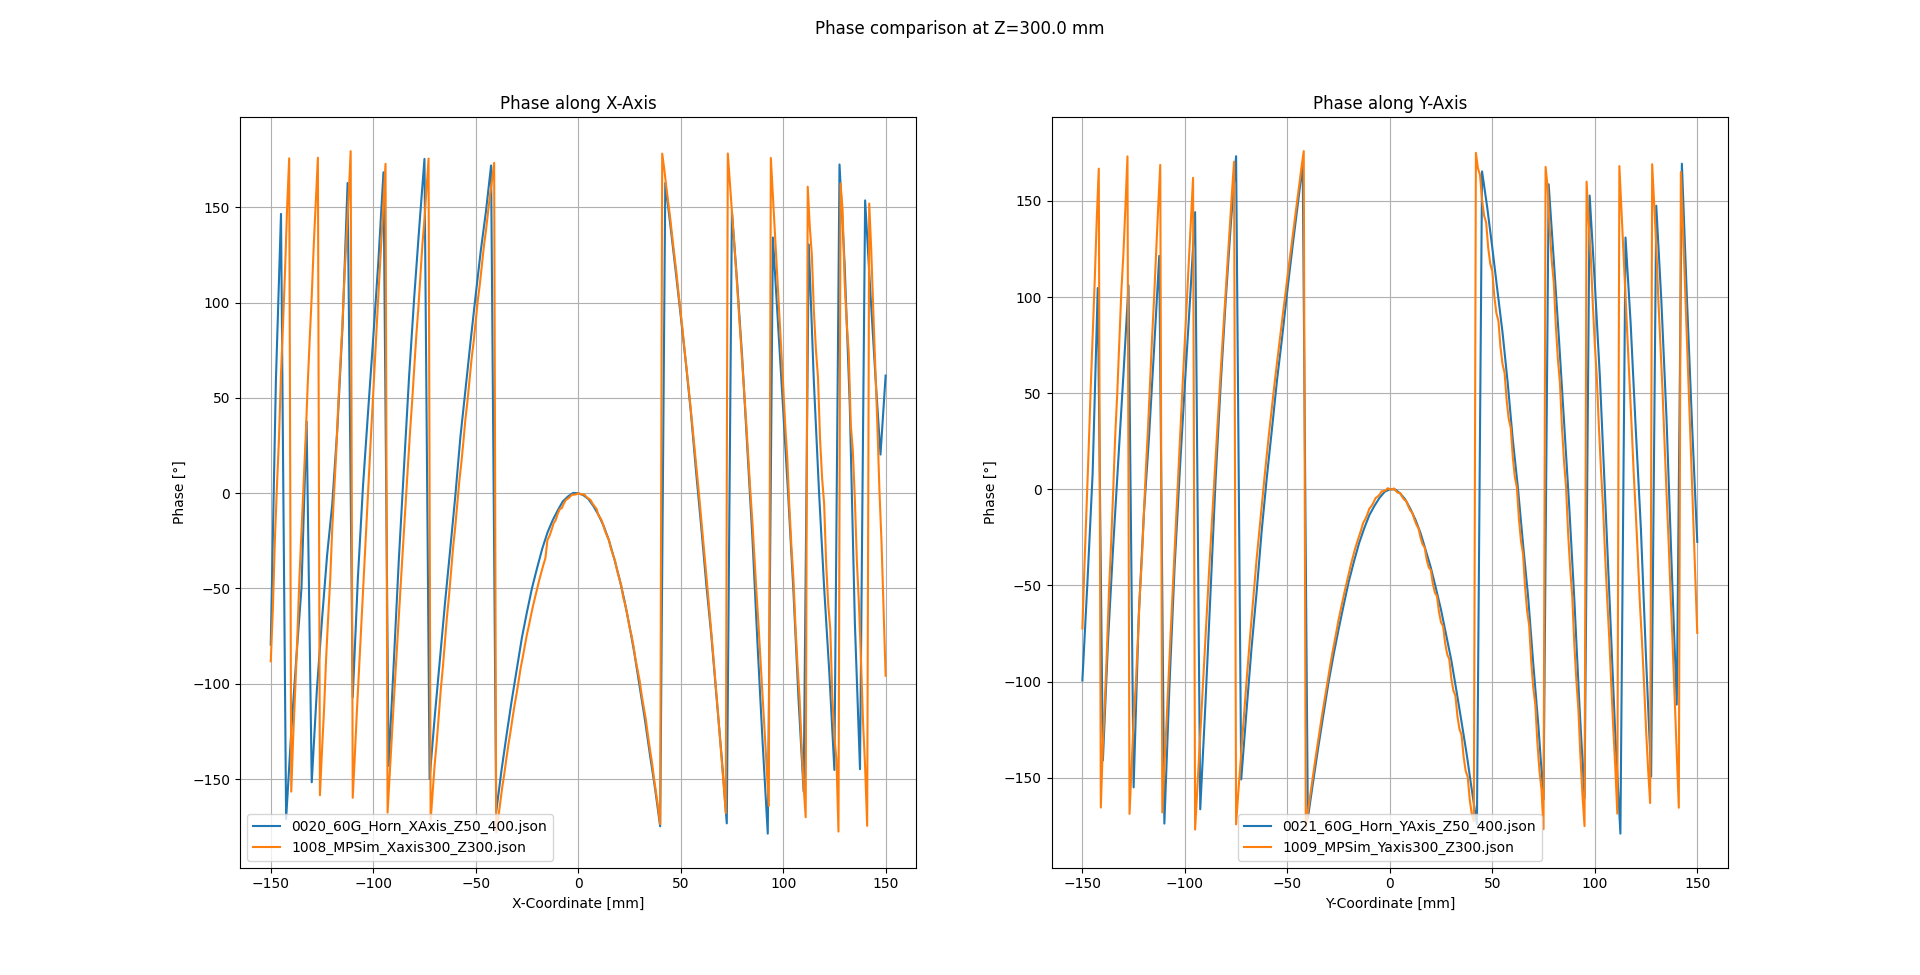
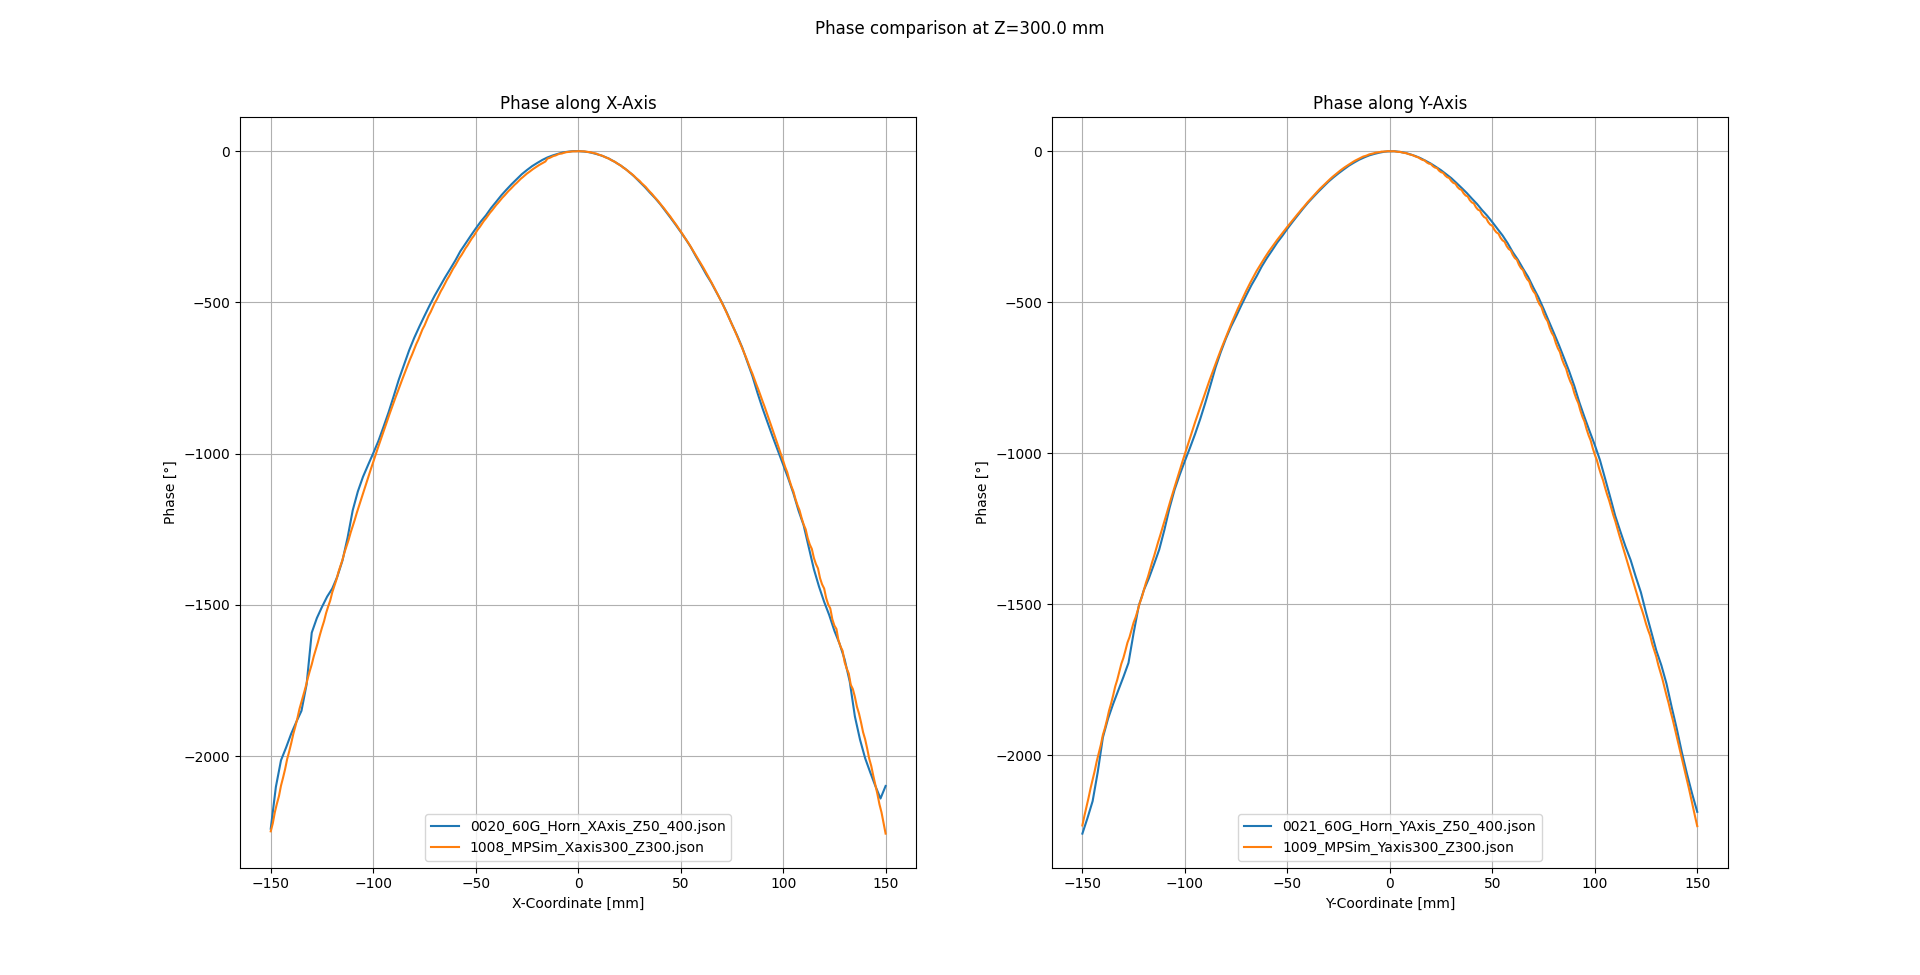
Updated plots with corrected data at Z250 and added more sim files for comparison

diff --git a/docs/Probe Antenna Effects/ProbeAntennaEffects.md b/docs/Probe Antenna Effects/ProbeAntennaEffects.md
@@ -1,7 +1,7 @@
 # Probe Antenna Effects in Measurement
 > This directory and file is meant to document all thoughts and findings about the effects of the probe antenna 
 > on the measurement results. The plots/pictures are generated with scripts from [another repository](https://github.com/NilsBade/Projektarbeit-E3/tree/master/CST%20Python%20Sim)
-> and compare real measurement data to simulation results.
+> to compare real measurement data to simulation results.
 
 ## Effect of Aperture Size
 The aperture size of the probe antenna is the first straight forward effect that can be observed.
@@ -23,13 +23,13 @@ over the ideal power-distribution was calculated. It can be seen, that once the 
 
 To conclude the effect of the probe antenna on the measured field (power distribution), three paths are run in parallel.
 Firstly a field simulation was done in CST and the poynting-vector was calculated in each point to get the power-density.
-Secondly The Probe antenna model was moved over the same area in CST and all S21 parameters were calculated and saved --
+Secondly The Probe antenna model was moved over the same area as in the real measurements in CST and all S21 (S12) parameters were calculated and saved --
 the same procedure that is done in the MeasurementChamber.  
 Thirdly the measurement was done in the real chamber with the same probe antenna and the same AUT.
 
 To compare the measured S-parameters and the calculated power-density distribution exported from CST, the 
 S-parameter value has to be squared before translating it to dB-scale since S-parameters are signal-amplitude referred
-while power are squared-proportional to the field-strength.
+while power is squared-proportional to the field-strength.
 
 ### Comparison Chamber Measurements to poyntig vector at different heights
 > **Data:** 
@@ -48,7 +48,7 @@ Details about data-files:
   * IF-Bandwidth: 10 Hz
   * Average number: 10
   * frequencies: 60, 63.5, 67 GHz
-* 1006 / 1007 Simulation measurement files
+* 1004 - 1010 Simulation measurement files
   * Mesh steps: 1mm
   * frequency: 60 GHz
 * Pow_f60_... CST poynting vector files (ideal power density distribution)
